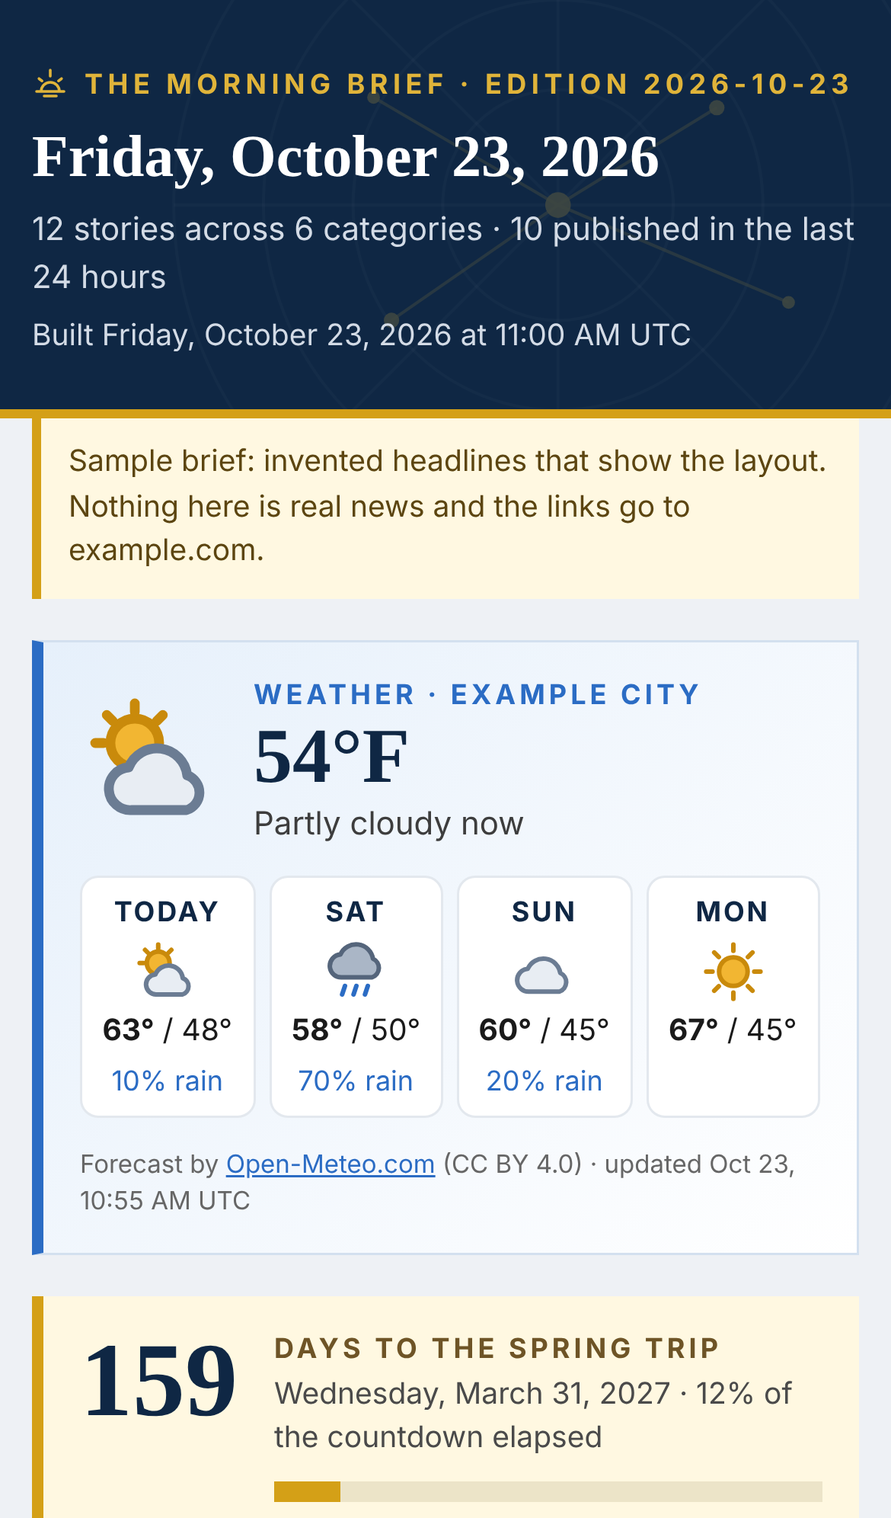
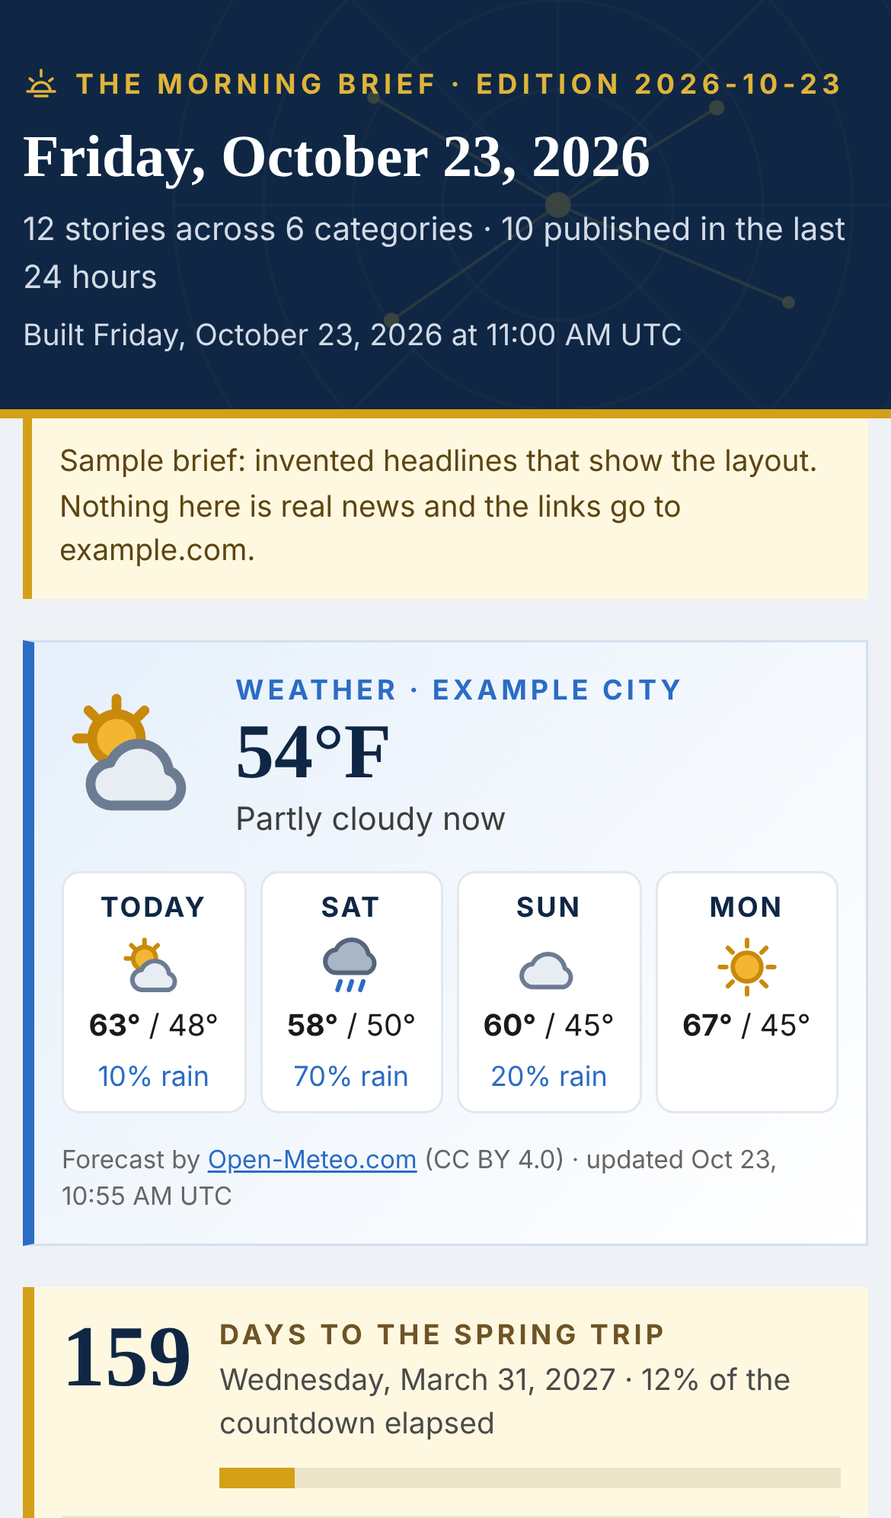
0.12.0: the town's own events first; the brief fits a phone
- Things to Do asks the nearest station calendar for events within 5 miles
  of the town before the 20-mile area, so a bigger neighbor's busy calendar
  cannot push the town's own events out; one question when the town fills
  the brief, and no event twice.
- On a phone the brief frame runs edge to edge and the page keeps 10-pixel
  side margins and 12-pixel box padding.
- Milestone tags stay one line tall and one width; several countdowns fit
  any window; long words wrap instead of widening the page.
- Tests: town events lead, a full town asks once, the brief fills three
  phone screens, the page fits a 280-pixel window.

Claude-Session: https://claude.ai/code/session_01DFYvtftK7k3zhgkwXZySNS

diff --git a/app/js/collect.js b/app/js/collect.js
@@ -40,6 +40,7 @@
   // read from this browser for this reader only. app/data/calendars.js lists the calendars.
   const CALENDAR_API = "https://portal.cityspark.com/api/events/GetEventsByDay/";
   const EVENT_MILES = 20;     // how far from the town an event may be
+  const EVENT_TOWN_MILES = 5; // the town itself, asked first so its own events lead
   const EVENT_DAYS = 7;       // today and the next six days
   const EVENT_CALENDARS = 2;  // the nearest calendars, the second only when the first is short
   const LANGS = { en: "english", es: "spanish", fr: "french", de: "german", it: "italian", pt: "portuguese", nl: "dutch" };
@@ -344,10 +345,11 @@
     return out;
   }
 
-  /* Asks one calendar for the week's events within EVENT_MILES of the town. Only the
-     town's rounded map position and the date are sent. */
-  async function calendarEvents(cal, lat, lng, startDate, nowIso, opts) {
-    const body = JSON.stringify({ start: startDate, daysToLoad: EVENT_DAYS, eventsPerDay: 3, lat: lat, lng: lng, distance: EVENT_MILES,
+  /* Asks one calendar for the week's events within `miles` (EVENT_MILES unless given) of
+     the town. Only the town's rounded map position and the date are sent. */
+  async function calendarEvents(cal, lat, lng, startDate, nowIso, opts, miles) {
+    const body = JSON.stringify({ start: startDate, daysToLoad: EVENT_DAYS, eventsPerDay: 3, lat: lat, lng: lng,
+      distance: E.isNum(miles) ? miles : EVENT_MILES,
       search: "", sort: "", category: [], labels: [], defFilter: "all" });
     const text = await getText(CALENDAR_API + cal.slug, Object.assign({}, opts, { body: body }));
     let data;
@@ -468,14 +470,22 @@
       const list = opts.calendars || (root && root.DB_CALENDARS) || null;
       const near = pos ? calendarsNear(list, code, pos.lat, pos.lng).slice(0, EVENT_CALENDARS) : [];
       const want = Math.max.apply(null, evCats.map(c => c.items || b.items_per_category));
-      const items = [], used = [];
+      const items = [], used = [], have = {};
+      // The town's own events first, so the busier calendar of a bigger town nearby cannot
+      // crowd them out; then the area around it while the brief is still short.
       for (const cal of near) {
-        if (items.length >= want * 2) break;
-        try {
-          const got = await calendarEvents(cal, pos.lat, pos.lng, opts.date || localDate(now), nowIso, opts);
-          for (const it of got) items.push(it);
-          used.push(E.collapse(cal.station) || cal.slug);
-        } catch (e) { err = err || String(e.message || e); }
+        for (const miles of [EVENT_TOWN_MILES, EVENT_MILES]) {
+          if (items.length >= want * 2) break;
+          try {
+            const got = await calendarEvents(cal, pos.lat, pos.lng, opts.date || localDate(now), nowIso, opts, miles);
+            for (const it of got) {
+              const k = E.normUrl(it.url) + " " + it.event.start;
+              if (!have[k]) { have[k] = true; items.push(it); }
+            }
+            const name = E.collapse(cal.station) || cal.slug;
+            if (used.indexOf(name) < 0) used.push(name);
+          } catch (e) { err = err || String(e.message || e); }
+        }
       }
       if (!near.length && !err) err = pos ? "no station calendar covers your town" : "your town has no map position; find it under the forecast in setup";
       for (const c of evCats) {
@@ -572,6 +582,6 @@
     return { brief: brief, health: health };
   }
 
-  return { GDELT, GAP_MS, BACKUP_URL, parseBackup, LOCAL_DIR, parseLocal, CALENDAR_API, EVENT_MILES, milesBetween, calendarsNear, eventItem, eventsFrom, calendarEvents, gdeltQuery, gdeltUrl, tidyTitle, gdeltDate, parseGdelt, parseFeed, imageOf, forecastUrl, weatherFrom,
+  return { GDELT, GAP_MS, BACKUP_URL, parseBackup, LOCAL_DIR, parseLocal, CALENDAR_API, EVENT_MILES, EVENT_TOWN_MILES, milesBetween, calendarsNear, eventItem, eventsFrom, calendarEvents, gdeltQuery, gdeltUrl, tidyTitle, gdeltDate, parseGdelt, parseFeed, imageOf, forecastUrl, weatherFrom,
     weather, geocode, collect, runBrief, localDate, markUnchecked, checkFeed };
 });

diff --git a/app/js/newsletter.js b/app/js/newsletter.js
@@ -20,7 +20,7 @@
   /*CSS-START*/
   const CSS = `
 *{box-sizing:border-box;}
-body{margin:0;background:#eef1f5;font-family:'Segoe UI',Roboto,Arial,Helvetica,sans-serif;font-size:15px;line-height:1.5;color:#1a1a1a;}
+body{margin:0;background:#eef1f5;font-family:'Segoe UI',Roboto,Arial,Helvetica,sans-serif;font-size:15px;line-height:1.5;color:#1a1a1a;overflow-wrap:break-word;}
 .in{max-width:1180px;margin:0 auto;padding:0 20px;}
 nav.site{background:#0a1c33;font-size:13px;}
 nav.site .in{display:flex;flex-wrap:wrap;gap:6px 20px;padding-top:9px;padding-bottom:9px;}
@@ -34,7 +34,7 @@ p.dl{font-size:14px;color:#d3dbe6;margin:0;}
 p.built{font-size:13px;color:#d3dbe6;margin:6px 0 0;}
 div.rule{background:#d4a017;height:4px;}
 main{padding-top:20px;padding-bottom:28px;}
-div.cdg{display:grid;grid-template-columns:repeat(auto-fit,minmax(280px,1fr));gap:14px;margin:0 0 18px;} div.cdg section.cd{margin:0;}
+div.cdg{display:grid;grid-template-columns:repeat(auto-fit,minmax(min(280px,100%),1fr));gap:14px;margin:0 0 18px;} div.cdg section.cd{margin:0;}
 section.cd{background:#fff8e1;border-left:5px solid #d4a017;padding:14px 16px;margin:0 0 18px;}
 div.cdtop{display:flex;gap:16px;align-items:flex-start;}
 div.cdn{font-family:Georgia,serif;font-size:46px;line-height:1;font-weight:bold;color:#0f2744;white-space:nowrap;}
@@ -44,7 +44,8 @@ div.cds{font-size:13px;color:#4a4a4a;margin:2px 0 8px;}
 div.bar{background:#ece4c8;height:9px;}
 div.barf{background:#d4a017;height:9px;}
 ul.ms{list-style:none;margin:12px 0 0;padding:0;font-size:13px;}
-ul.ms li{display:flex;gap:10px;padding:6px 0;border-top:1px solid #efe6c7;}
+ul.ms li{display:flex;gap:10px;align-items:flex-start;padding:6px 0;border-top:1px solid #efe6c7;}
+ul.ms li > span.pill{flex:none;min-width:58px;text-align:center;margin-top:1px;}
 span.msn{display:block;font-size:12px;color:#666666;}
 span.pill{display:inline-block;font-size:11px;font-weight:bold;color:#ffffff;padding:2px 8px;border-radius:10px;letter-spacing:.03em;vertical-align:middle;margin-right:6px;white-space:nowrap;}
 span.ms-hot{background:#b03a2e;} span.ms-warm{background:#a04000;}
@@ -119,7 +120,7 @@ span.wxhl{font-size:14px;}
 span.wxr{font-size:12px;color:#2b6cc4;min-height:16px;}
 p.wxs{flex-basis:100%;margin:0;font-size:11px;color:#666666;}
 p.wxs a{color:#2b6cc4;}
-@media (max-width:760px){h1.ttl{font-size:26px;} div.tiles{grid-template-columns:repeat(2,1fr);} div.grid{grid-template-columns:1fr;} .in{padding:0 14px;} div.art{width:100%;opacity:.22;} ol.wxd{display:grid;grid-template-columns:repeat(4,minmax(0,1fr));gap:6px;flex-basis:100%;} ol.wxd li{min-width:0;padding:6px 2px;} svg.wxi{width:30px;height:30px;} span.wxhl{font-size:13px;} div.wxnow{min-width:0;}}
+@media (max-width:760px){h1.ttl{font-size:26px;} div.tiles{grid-template-columns:repeat(2,1fr);} div.grid{grid-template-columns:1fr;} .in{padding:0 10px;} section.cd,section.wx,section.an,section.arch{padding:12px;} div.cdtop{gap:12px;} div.cdn{font-size:38px;} h2.ch,p.sig{padding:10px 12px;} li.it,p.none{padding:12px;} li.lead .ph{margin:-12px -12px 10px;} div.art{width:100%;opacity:.22;} ol.wxd{display:grid;grid-template-columns:repeat(4,minmax(0,1fr));gap:6px;flex-basis:100%;} ol.wxd li{min-width:0;padding:6px 2px;} svg.wxi{width:30px;height:30px;} span.wxhl{font-size:13px;} div.wxnow{min-width:0;}}
 @media print{nav.site{display:none;} body{background:#ffffff;} div.grid{display:block;} section.card{break-inside:avoid;margin:0 0 12px;}}
 `;
   /*CSS-END*/

diff --git a/app/css/style.css b/app/css/style.css
@@ -225,6 +225,8 @@ details.more > summary { display: flex; align-items: center; }
 iframe.page { display: block; width: 100%; min-height: 600px; height: 1400px; border: 0; border-radius: var(--radius); background: #eef1f5; margin-top: 12px; box-shadow: 0 2px 14px rgba(15, 39, 68, .12); }
 #briefview { padding: 16px 0 0; background: transparent; border: 0; }
 #briefview > h2, #briefview > .hint, #briefview > .actions, #briefview > details { margin-left: 4px; margin-right: 4px; }
+/* On a phone the brief runs from edge to edge: the page keeps its own narrow margins. */
+@media (max-width: 640px) { iframe.page { width: calc(100% + 32px); margin-left: -16px; margin-right: -16px; border-radius: 0; box-shadow: none; } }
 @media (max-width: 760px) {
   .hero { grid-template-columns: 1fr; padding: 20px; }
   .hero h1 { font-size: 26px; }

diff --git a/app/sw.js b/app/sw.js
@@ -3,7 +3,7 @@
    when offline. Every request asks the server whether the file changed
    ("no-cache"), because GitHub Pages lets browsers keep files for 10 minutes.
    Bump VERSION when the file list changes. */
-const VERSION = "db-v0.11.1";
+const VERSION = "db-v0.12.0";
 const FILES = ["./", "index.html", "css/style.css", "js/engine.js", "js/newsletter.js", "js/collect.js", "js/ideas.js", "js/services.js", "js/app.js",
   "data/library.js", "data/prompts.js", "data/sample.js", "data/icons.js", "data/calendars.js", "manifest.webmanifest", "icon.svg", "icon-180.png",
   "icon-192.png", "icon-512.png", "icon-maskable-512.png"];

diff --git a/app/js/engine.js b/app/js/engine.js
@@ -9,7 +9,7 @@
 })(typeof self !== "undefined" ? self : this, function () {
   "use strict";
 
-  const VERSION = "0.11.1";
+  const VERSION = "0.12.0";
   const SCHEMA = "daily-brief/v1";
   const MAX_CATEGORIES = 15;
   const MAX_COUNTDOWNS = 4;

diff --git a/tests/test_ui.py b/tests/test_ui.py
@@ -302,6 +302,44 @@ def test_phone_layout_never_scrolls_sideways(browser):
     ctx.close()
 
 
+BRIEF_FIT = """(doc) => {
+  const main = doc.querySelector('main.in');
+  return { w: doc.documentElement.clientWidth, sw: doc.documentElement.scrollWidth,
+           pad: main ? parseFloat(getComputedStyle(main).paddingLeft) : null,
+           pills: [...doc.querySelectorAll('ul.ms span.pill')].map(p => Math.round(p.getBoundingClientRect().height)) }; }"""
+
+
+def test_the_brief_fills_a_phone_screen(browser):
+    """On a phone the brief runs from edge to edge with narrow margins, never scrolls
+    sideways, and keeps the milestone tags one line tall."""
+    for device in ("iPhone SE", "iPhone 13", "Pixel 7"):
+        ctx, page, errors = open_page(browser, APP, device=device, state=ready_state(welcome="2099-01-01"))
+        page.click("button:has-text(\"Get today's brief\")")
+        page.wait_for_selector("iframe.page", timeout=60000)
+        left, width, screen = page.evaluate("(() => { const r = document.querySelector('iframe.page').getBoundingClientRect(); return [r.left, r.width, window.innerWidth]; })()")
+        assert (left, width) == (0, screen), (device, left, width, screen)
+        fit = page.evaluate("() => (" + BRIEF_FIT + ")(document.querySelector('iframe.page').contentDocument)")
+        assert fit["sw"] <= fit["w"], (device, fit)
+        assert fit["pad"] <= 10, (device, fit)
+        assert fit["pills"] and max(fit["pills"]) <= 24, (device, fit)
+        assert page.evaluate("document.documentElement.scrollWidth <= window.innerWidth"), device
+        assert errors == []
+        ctx.close()
+
+
+def test_the_brief_page_fits_a_narrow_window(browser):
+    """The page itself, opened alone or from an email, fits a 280-pixel window."""
+    from dailybrief import render
+    brief = json.loads((ROOT / "examples" / "sample-brief.json").read_text(encoding="utf-8"))
+    settings = json.loads((ROOT / "examples" / "sample-settings.json").read_text(encoding="utf-8"))
+    p, b = browser
+    page = b.new_page(viewport={"width": 280, "height": 700})
+    page.set_content(render.render(brief, settings)["html"])
+    fit = page.evaluate("() => (" + BRIEF_FIT + ")(document)")
+    assert fit["sw"] <= fit["w"], fit
+    page.close()
+
+
 def test_desktop_app_collects_and_shows_the_page(browser):
     app = server.DesktopApp(port=0, fetcher=lambda u: feed_bytes("google_news.xml" if "google" in u else "rss_feed.xml"), pause=0)
     app.start_background()
@@ -704,13 +742,16 @@ def test_town_categories_read_the_local_stations_of_your_state(browser, http_app
     ctx.close()
 
 
-def calendar_week():
-    """A CitySpark answer for the next three days, made from invented events."""
+CALENDAR_ROWS = [[(101, "Harvest Night Market", 18, "Town Square", "https://events.example.com/market"),
+                  (102, "Library Story Time", 10, "Main Library", "https://www.facebook.com/events/1")],
+                 [(201, "Community Choir Rehearsal", 19, "Grace Hall", "https://choir.example.com")],
+                 [(301, "Pumpkin Walk", None, "Riverside Park", "https://walk.example.com")]]
+
+
+def calendar_week(rows=None, town="Example City, FL"):
+    """A CitySpark answer for the next days, one list of events per day, made from invented events."""
+    rows = CALENDAR_ROWS if rows is None else rows
     day = datetime.now(timezone.utc).date() + timedelta(days=1)
-    rows = [[(101, "Harvest Night Market", 18, "Town Square", "https://events.example.com/market"),
-             (102, "Library Story Time", 10, "Main Library", "https://www.facebook.com/events/1")],
-            [(201, "Community Choir Rehearsal", 19, "Grace Hall", "https://choir.example.com")],
-            [(301, "Pumpkin Walk", None, "Riverside Park", "https://walk.example.com")]]
     value = []
     for k, evs in enumerate(rows):
         d = day + timedelta(days=k)
@@ -719,13 +760,15 @@ def calendar_week():
             local = "%sT%02d:00:00Z" % (d.isoformat(), hour or 0)
             utc = None if hour is None else "%sT%02d:00:00Z" % (d.isoformat(), (hour + 5) % 24)
             out.append({"PId": pid, "Name": name, "DateStart": local, "StartUTC": utc, "AllDay": hour is None, "HasTime": hour is not None,
-                        "Venue": venue, "CityState": "Example City, FL", "Summary": name + " for all ages.", "PrimaryUrl": url,
+                        "Venue": venue, "CityState": town, "Summary": name + " for all ages.", "PrimaryUrl": url,
                         "LargeImg": "", "MediumImg": ""})
         value.append({"Date": d.isoformat(), "TotalCount": len(out), "Events": out})
     return {"Success": True, "Value": value}
 
 
-def test_things_to_do_lists_the_week_from_the_nearest_station_calendar(browser, http_app):
+def events_brief(browser, http_app, answer):
+    """Builds a Things to Do brief for Example City, Florida, with every calendar question
+    answered by answer(body). Returns (ctx, page, errors, asked)."""
     lib = json.loads((ROOT / "app" / "data" / "library.js").read_text().split("= ", 1)[1].rstrip().rstrip(";"))
     pick = {c["id"]: c for c in lib["categories"]}
     cfg = {"version": 1, "reader": {"location": "Example City", "region": "Florida", "local_terms": []},
@@ -737,22 +780,29 @@ def test_things_to_do_lists_the_week_from_the_nearest_station_calendar(browser, 
                                                            headers={"content-type": "text/javascript"}))
     page.reload()
     asked = []
-    week = calendar_week()
 
     def calendar(route):
         req = route.request
         if req.method == "OPTIONS":
             return route.fulfill(status=204, headers=dict(CORS, **{"access-control-allow-headers": "content-type", "access-control-allow-methods": "POST"}))
-        asked.append((req.method, req.url.rsplit("/", 1)[1], json.loads(req.post_data)))
-        return route.fulfill(status=200, body=json.dumps(week), headers=dict(CORS, **{"content-type": "application/json"}))
+        body = json.loads(req.post_data)
+        asked.append((req.method, req.url.rsplit("/", 1)[1], body))
+        return route.fulfill(status=200, body=json.dumps(answer(body)), headers=dict(CORS, **{"content-type": "application/json"}))
     page.route("https://portal.cityspark.com/**", calendar)
     page.route("**/data/local/*.json", lambda r: r.fulfill(status=404, body=""))
     page.click("button:has-text(\"Get today's brief\")")
     page.wait_for_selector("iframe.page", timeout=60000)
-    assert len(asked) == 1 and asked[0][:2] == ("POST", "ExampleTV"), "one question, to the nearest calendar only"
-    body = asked[0][2]
+    return ctx, page, errors, asked
+
+
+def test_things_to_do_lists_the_week_from_the_nearest_station_calendar(browser, http_app):
+    week = calendar_week()
+    ctx, page, errors, asked = events_brief(browser, http_app, lambda body: week)
+    assert [a[:2] for a in asked] == [("POST", "ExampleTV")] * 2, "the nearest calendar only: the town, then the area around it"
+    assert [a[2]["distance"] for a in asked] == [5, 20]
+    body = asked[1][2]
     assert (body["lat"], body["lng"], body["distance"], body["daysToLoad"]) == (30.25, -85.65, 20, 7)
-    assert "Example City" not in json.dumps(body), "only the rounded map position leaves the browser"
+    assert "Example City" not in json.dumps(asked), "only the rounded map position leaves the browser"
     items = page.evaluate("DB_APP.state().brief.categories[0].items")
     assert [i["title"] for i in items] == ["Harvest Night Market", "Community Choir Rehearsal", "Pumpkin Walk", "Library Story Time"]
     assert items[0]["url"] == "https://events.example.com/market", "the organizer's page"
@@ -766,6 +816,32 @@ def test_things_to_do_lists_the_week_from_the_nearest_station_calendar(browser, 
     assert "powered by CitySpark" in frame.locator("footer").inner_text()
     page.click("#briefview summary:has-text('Sources and filters')")
     assert "4 events from WEXA calendars" in page.inner_text("#briefview")
+    assert errors == []
+    ctx.close()
+
+
+def test_the_towns_own_events_lead_things_to_do(browser, http_app):
+    """A busy calendar in a bigger town nearby cannot crowd out the reader's own town: the
+    calendar is asked for the town first, and the wider area only fills what is left."""
+    town = calendar_week([[(501, "Chamber Mentorship Mixer", 17, "Chamber Office", "https://chamber.example.com/mixer")],
+                          [(502, "Saturday Farmers Market", 8, "High School", "https://market.example.com")]])
+    area = calendar_week([[(601, "Theatre Matinee", 14, "Bay Theatre", "https://theatre.example.com/matinee"),
+                           (501, "Chamber Mentorship Mixer", 17, "Chamber Office", "https://chamber.example.com/mixer")],
+                          [(602, "Harbor Boat Parade", 18, "City Harbor", "https://parade.example.com")]], town="Bigger Town, FL")
+    ctx, page, errors, asked = events_brief(browser, http_app, lambda body: town if body["distance"] == 5 else area)
+    assert [a[2]["distance"] for a in asked] == [5, 20]
+    titles = [i["title"] for i in page.evaluate("DB_APP.state().brief.categories[0].items")]
+    assert titles == ["Chamber Mentorship Mixer", "Saturday Farmers Market", "Theatre Matinee", "Harbor Boat Parade"], titles
+    assert errors == []
+    ctx.close()
+
+
+def test_a_town_with_a_full_week_asks_once(browser, http_app):
+    week = calendar_week([[(700 + 10 * d + k, "Town Event %d-%d" % (d, k), 9 + k, "Town Hall", "https://town.example.com/e%d%d" % (d, k))
+                           for k in range(3)] for d in range(4)])
+    ctx, page, errors, asked = events_brief(browser, http_app, lambda body: week)
+    assert [a[2]["distance"] for a in asked] == [5], "twelve events in the town already fill the brief"
+    assert len(page.evaluate("DB_APP.state().brief.categories[0].items")) == 5
     assert errors == []
     ctx.close()
 

diff --git a/dailybrief/engine.py b/dailybrief/engine.py
@@ -13,7 +13,7 @@ import re
 from datetime import datetime, timedelta, timezone
 from typing import Any, Optional
 
-VERSION = "0.11.1"
+VERSION = "0.12.0"
 SCHEMA = "daily-brief/v1"
 MAX_CATEGORIES = 15
 MAX_COUNTDOWNS = 4

diff --git a/docs/ROADMAP.md b/docs/ROADMAP.md
@@ -70,7 +70,7 @@ Needs a decision.
 | R27 | Town news without GDELT | The five town categories depended on GDELT | M | Replaced by R28 |
 | R28 | Local news by state on GitHub | GitHub reads the news feeds of about 400 local TV stations every four hours and publishes one file per state; the page reads its reader's state file and keeps the stories that name the town or a nearby place. Nothing runs on the reader's computer and the town never leaves the browser | M | Done in 0.6.0 |
 | R31 | Countdown ideas | Suggestions from the chosen categories: rule-based dates (Election Day, Thanksgiving, Tax Day, Federal Benefits Open Season, hurricane season on the coasts) and personal countdowns with milestones set back from the reader's date; ideas for some readers only (Medicare) in a More ideas list | S | Done in 0.9.0 to 0.10.0 (several countdowns from 0.10.0) |
-| R30 | Events for Things to Do | The nearest station's community calendar (CitySpark), asked from the reader's browser for the week's events within 20 miles of the town; nothing stored on GitHub | M | Done in 0.8.0 |
+| R30 | Events for Things to Do | The nearest station's community calendar (CitySpark), asked from the reader's browser for the week's events in the town first, then within 20 miles of it; nothing stored on GitHub | M | Done in 0.8.0 (town first from 0.12.0) |
 | R29 | More local stations | Station groups whose lists are not machine-readable (Sinclair, Allen Media, independents) and local papers with feeds, for thin states such as Delaware and Wyoming | M | Idea |
 | R1 | Cloud schedule with GitHub Actions in your own private copy | A brief with no computer left on | M | Done in 0.1.0 |
 | R19 | Save settings to your GitHub copy from the app | Skip the download and upload step with a fine-grained token kept in the browser | M | Idea |

diff --git a/README.md b/README.md
@@ -140,7 +140,7 @@ email app with Email this brief; see [CHANGELOG.md](CHANGELOG.md).
 | 1 | Publisher feeds that allow web pages (The New York Times, Fox News, CNBC, ESPN, CBS Sports, Wired, NASA, Dark Reading, Industry Dive trade sites and others) | Every brief |
 | 2 | The backup collection: a file this project's GitHub workflow rebuilds every four hours from Google News and every library feed, published beside the app; recent stories from the last run stay, so a bad run cannot empty a category | When a category is still short |
 | 3 | Local news for your state: the news feeds of about 400 local TV stations, which the same GitHub workflow reads every four hours and publishes as one file per state | For the categories about your town |
-| 4 | Event calendars: the community calendar of the nearest local TV station (145 station calendars in 39 states run on CitySpark), asked by your browser for the week's events within 20 miles of your town | For Things to Do |
+| 4 | Event calendars: the community calendar of the nearest local TV station (145 station calendars in 39 states run on CitySpark), asked by your browser for the week's events in your town first, then within 20 miles of it | For Things to Do |
 | 5 | The GDELT news index | Only for what is still short, mostly topics you typed |
 
 Everything above is collected by this site and its GitHub workflow. Nothing has

diff --git a/CHANGELOG.md b/CHANGELOG.md
@@ -1,5 +1,24 @@
 # Changelog
 
+## 0.12.0 (2026-10-26)
+
+Your own town's events first, and a brief that fits a phone.
+
+- Things to Do asks the station calendar for events in your town itself (within
+  5 miles of it) before the wider area (within 20 miles). A bigger town nearby
+  with a busy calendar no longer pushes your own town's events out: in a test
+  around a small Florida city, the 20-mile list held only its neighbors' events
+  while the city's chamber, library and market events sat on the same calendar.
+  When your town fills the brief, the page asks only once; the same event is
+  never listed twice.
+- On a phone, today's brief runs from edge to edge of the screen, and the page
+  keeps narrower margins (10 pixels at the sides, 12 inside each box), so
+  stories, the forecast and countdowns get more of the width.
+- Countdown milestone tags stay one line tall and the same width, so the steps
+  line up, and several countdowns side by side fit any window, even under 300
+  pixels. Very long words or web addresses wrap instead of pushing the page
+  sideways.
+
 ## 0.11.1 (2026-10-26)
 
 - Countdowns saved before 0.11.0 lose the steps that assumed the reader

diff --git a/docs/CATEGORIES.md b/docs/CATEGORIES.md
@@ -38,8 +38,9 @@ words your own category. Each category has:
   every four hours; see `dailybrief/local_stations.json`) and the local news
   feeds you add on the town question. Their stories still need to name your
   town or a nearby place, and the desk's topic words still apply.
-- Things to Do (`local-events`) also reads the week's events within 20 miles of
-  the town from the nearest station calendar (see `app/data/calendars.js`).
+- Things to Do (`local-events`) also reads the week's events from the nearest
+  station calendar (see `app/data/calendars.js`): first those within 5 miles of
+  the town, so its own events lead, then those within 20 miles.
   Events lead the desk, a day at a time, and carry an `event` with their start
   and place; the desk's excluded words still apply.
 
